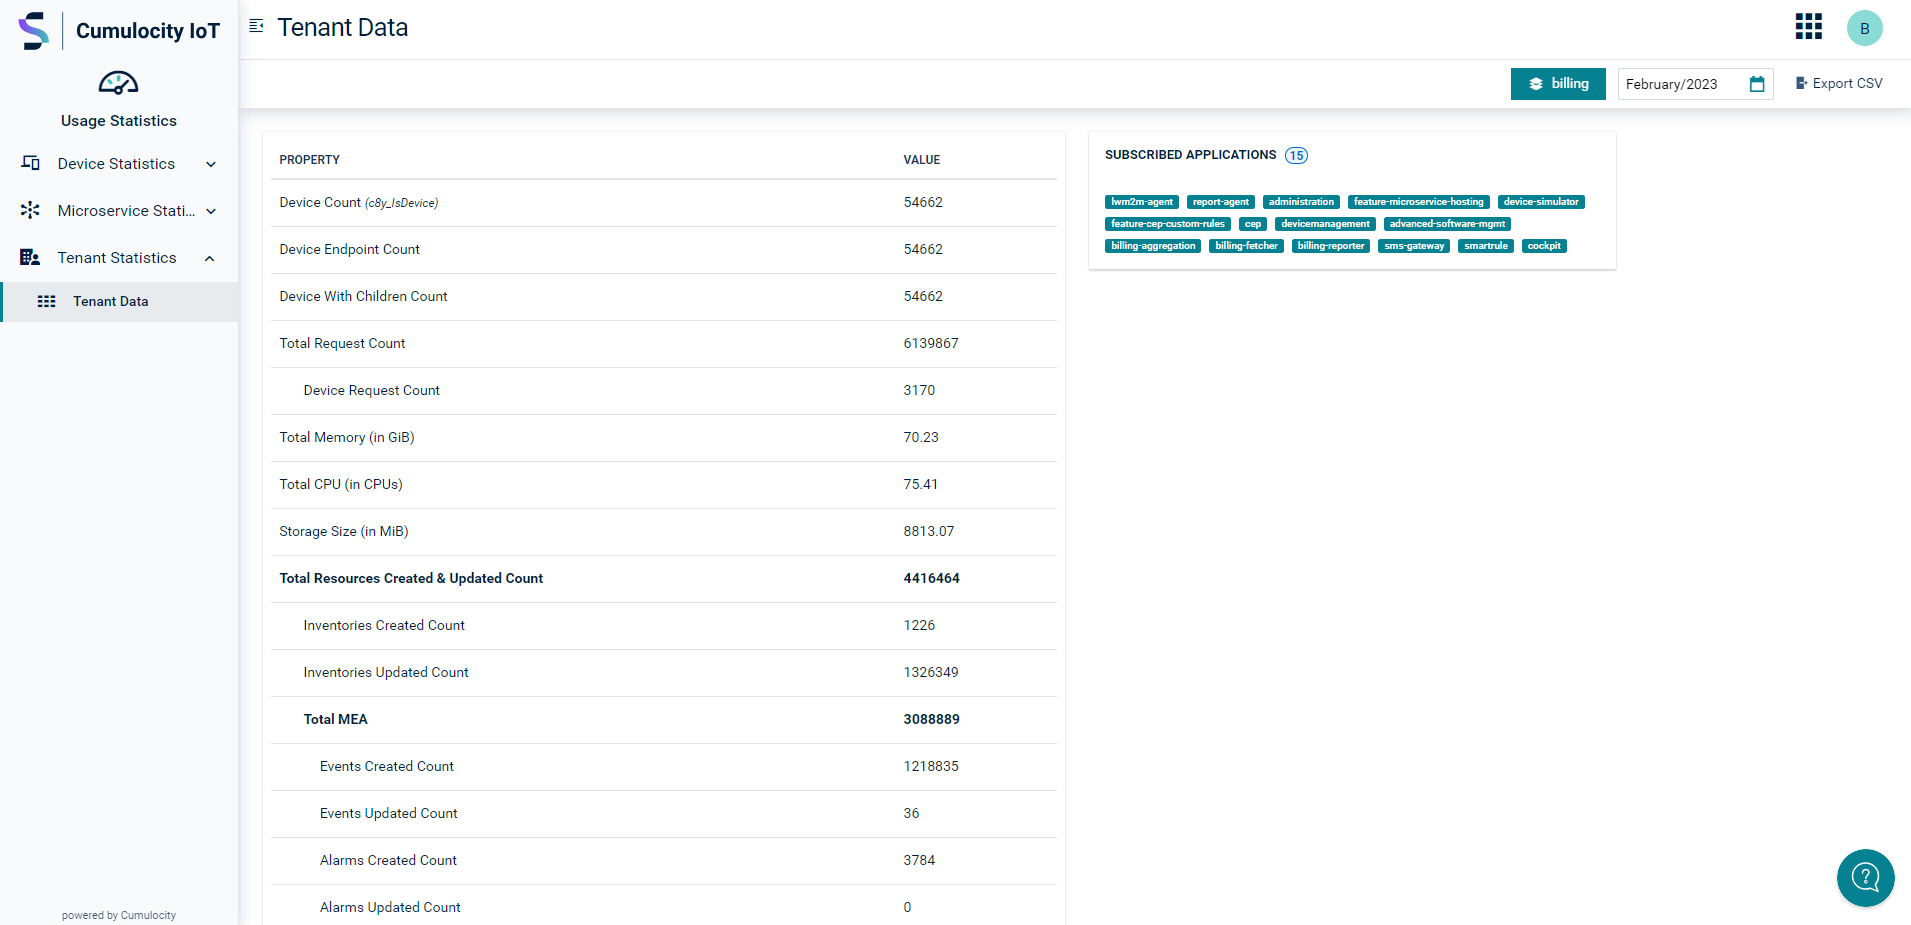
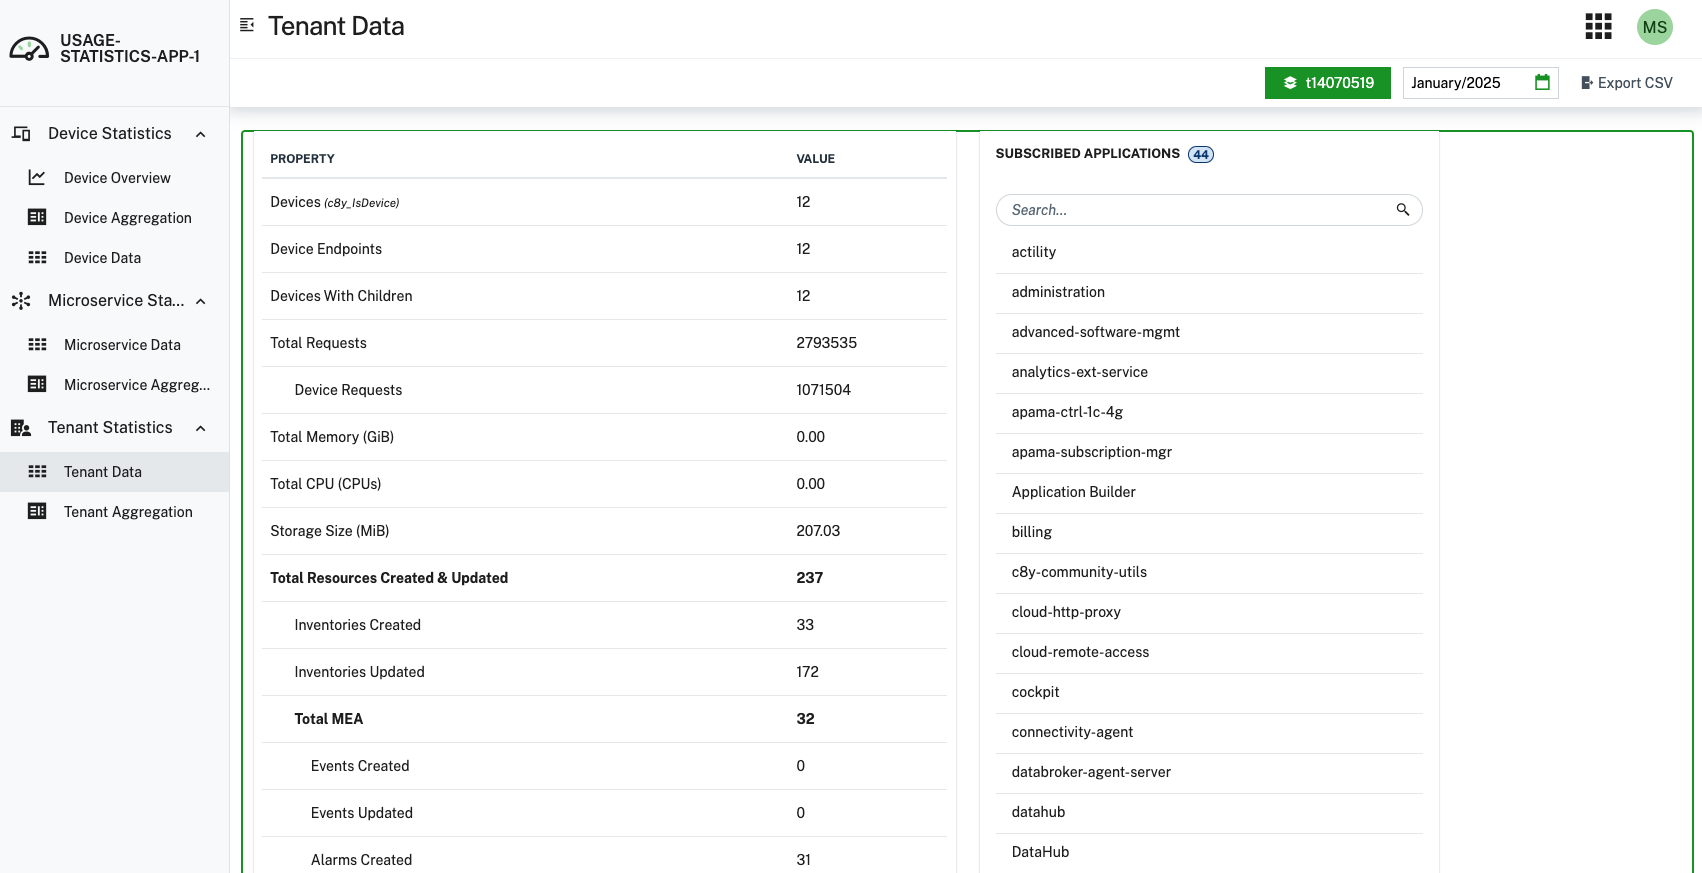
Update readme and screenshots

diff --git a/README.md b/README.md
@@ -9,12 +9,12 @@ The `Usage Statistics Application` enables you to view consumption and usage inf
 
 ### Overview of Features
 The `Usage Statistics Application` consists of the following statistics:
-- `Device Statistics` - Calculates the device classification for each device connected to Cumulocity IoT, giving you greater ability to investigate the amount of data each device is sending to the platform. 
-- `Microservice Statistics` - Understand the resources used behind each deployed microservice and identify areas of optimization.
-- `Tenant Statistics` - Discover other data points related to tenant consumption, including metrics such as total storage used and subscribed applications. 
+- `Device Statistics` - Calculates the device classification for each device connected to Cumulocity IoT, giving you greater ability to investigate the amount of data each device is sending to the platform. This includes also the Device Aggregation that sums up all subtenants blow the (including) enterprise  tenant.
+- `Microservice Statistics` - Understand the resources used behind each deployed microservice and identify areas of optimization. This includes also the Microservice Aggregation that sums up all subtenants blow the (including) enterprise  tenant.
+- `Tenant Statistics` - Discover other data points related to tenant consumption, including metrics such as total storage used and subscribed applications. This includes also the Tenant Aggregation that sums up all subtenants blow the (including) enterprise  tenant. 
 
-The data in the app is available monthly on a per-tenant basis. Parent tenants can view statistics for individual child tenants. The month and tenant selectors are universal and apply throughout the application. 
-#### Configuration Screenshots
+The data in the app is available monthly on a per-tenant basis. Parent tenants can view statistics for individual child tenants. The month and tenant selectors are universal and apply throughout the application. Tenant selector is naturally not available in aggregated views.
+
 ##### Tenant Selector
 ![Tenant Selector](usage-statistics-app/assets/images/tenant_selector.png)
 Inactive tenants are black
@@ -24,9 +24,9 @@ Inactive tenants are black
 
 
 ### Device Statistics
-`Device Statistics` gives you the ability to configure and analyze classification of devices for the selected tenant. In this context, a device is any inventory object that has at least one  measurement, event, or alarm over a month. You are able to investigate the total number of measurements, events, and alarms that each device sent over the course of a month. In addition, you are able to set custom classes based on the average frequency of data being sent, along with thresholds per class.
+`Device Statistics` gives you the ability to configure and analyze classification of devices for the selected tenant. In this context, a device is any inventory object that has at least one  measurement, event, or alarm over a month. You are able to investigate the total number of measurements, events, and alarms that each device sent over the course of a month.
 
-By default, there are six device classes defined as follows:
+There are six device classes defined as follows:
 1. Class A = between 0 and 24 MEAs per day
 2. Class B = between 24 and 144 MEAs per day
 3. Class C = between 144 and 1440 MEAs per day
@@ -34,7 +34,7 @@ By default, there are six device classes defined as follows:
 5. Class E = between 8640 and 86400 MEAs per day
 6. Class F = greater than 86400 MEAs per day
 
-These ranges are inclusive for the lower bound and exclusive for the upper bound. The ranges and names of each classification can be modified by the end user. In addition, for each classification, the user can define a threshold. This threshold will compare the amount of devices in each class, and then calculate a percentage on the `Device Overview` page. 
+These ranges are inclusive for the lower bound and exclusive for the upper bound.
 
 The `Device Statistics` data is available monthly for the selected tenant, and you can export the data to CSV for analysis outside of Cumulocity IoT. 
 
@@ -50,19 +50,16 @@ The `Device Statistics` data is available monthly for the selected tenant, and y
 ### Microservice Statistics
 `Microservice Statistics` enables you to look at your subscribed microservices and their resource usage for the selected tenant. When a microservice is subscribed to a tenant, it requests a certain amount of CPU power and Memory capacity. Whenever the microservice is active, Cumulocity IoT will allocate these resources to ensure the microservice can run appropropriately. Via `Microservice Statistics`, you can investigate the resources used by your deployed microservices.
 
-In addition, just like with the devices, you have the ability to define custom categories and thresholds for your microservices. There are 3 default categories for microservices - Product Services, Streaming Analytics, and Machine Learning. These correspond to Software AG provided microservices and are the default values. Every other microservice that does not fit in these categories is considered a "Custom Microservice" and treated like a fourth category. You are able to view each category individually, enabling you to draw conclusions about your usage and where you can optimize your deployments. 
 
 The `Microservice Statistics` data is available monthly, and you can export the data to CSV for analysis outside of Cumulocity IoT. 
 
-#### Microservice Statistics Screenshots
-##### Microservice Overview - Category Overview
-![Microservice Overview - Category Overview](usage-statistics-app/assets/images/ms_stats-category_overview.png)
-##### Microservice Overview - Services Overview
-![Microservice Overview - Services Overview](usage-statistics-app/assets/images/ms_stats-services_overview.png)
+
 ##### Microservice Data
 ![Microservice Data](usage-statistics-app/assets/images/ms_stats-data.png)
-##### Microservice Configuration
-![Microservice Configuration](usage-statistics-app/assets/images/ms_stats-config.png)
+
+##### Microservices Aggregation
+Aggregation over all tenants, meaning when a microservice is deployed multiple times its values will be aggregated to a total. All values will also be aggregate to top level  which includes the total CCUs.
+![Microservice Aggregation](usage-statistics-app/assets/images/ms_stats-aggreagation.png)
 
 ### Tenant Statistics
 `Tenant Statistics` grants you access to other metrics associated with tenant usage in Cumulocity IoT. This includes data for storage, API requests, and other ways counting the number of devices connected. You can also see all of the subscribed applications for the tenant, which includes both microservices and UI apps. 
@@ -76,7 +73,7 @@ The `Tenant Statistics` data is available monthly, and you can export the data t
 
 # Metrics Aggregator Microservice
 This microservice serves as a backend for the Usage Statistics Webapp of Cumulocity IoT.
-It performs an aggregation of all subtenants assets of an Enterpreise Tenant (including itself). I covers Device Classes-, Microservices- and Tenant-Statistics The following endpoint lets you request the statistics:
+It performs an aggregation of all subtenants assets of an Enterprise Tenant (including itself). I covers Device Classes-, Microservices- and Tenant-Statistics The following endpoint lets you request the statistics:
 
 # Statistics Endpoints
 
@@ -93,9 +90,9 @@ https://<deployed tenant>.cumulocity.com/service/metrics-aggregator/tenants/?dat
 
 
 ## We want your feedback!
-The `Usage Statistics Application` is available to you in a public preview so that we can collect your feedback. Please share any and all of your feedback, both positive and negative, on the [Cumulocity IoT Feedback Portal](https://cumulocityiot.ideas.aha.io/). 
+The `Usage Statistics Application` is available to you in a public preview so that we can collect your feedback. Please share any and all of your feedback, both positive and negative. Please contact marco.stoffel@cumulocity.com
 
-Please note that this tool is provided as-is and without warranty or support. It does not constitute part of the Software AG product suite. 
+Please note that this tool is provided as-is and without warranty or support. It does not constitute part of the Cumulocity product. 
 This application works best with [Google Chrome](https://www.google.com/chrome/) and Cumulocity UI version as mentioned below
 
 ### Compatibility
